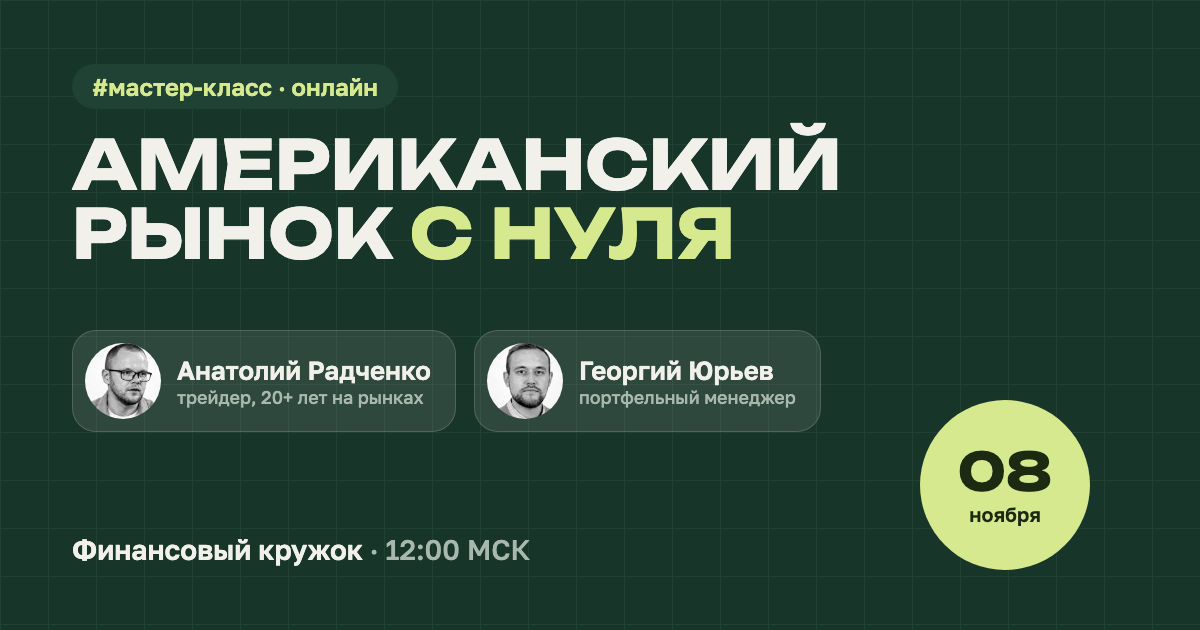
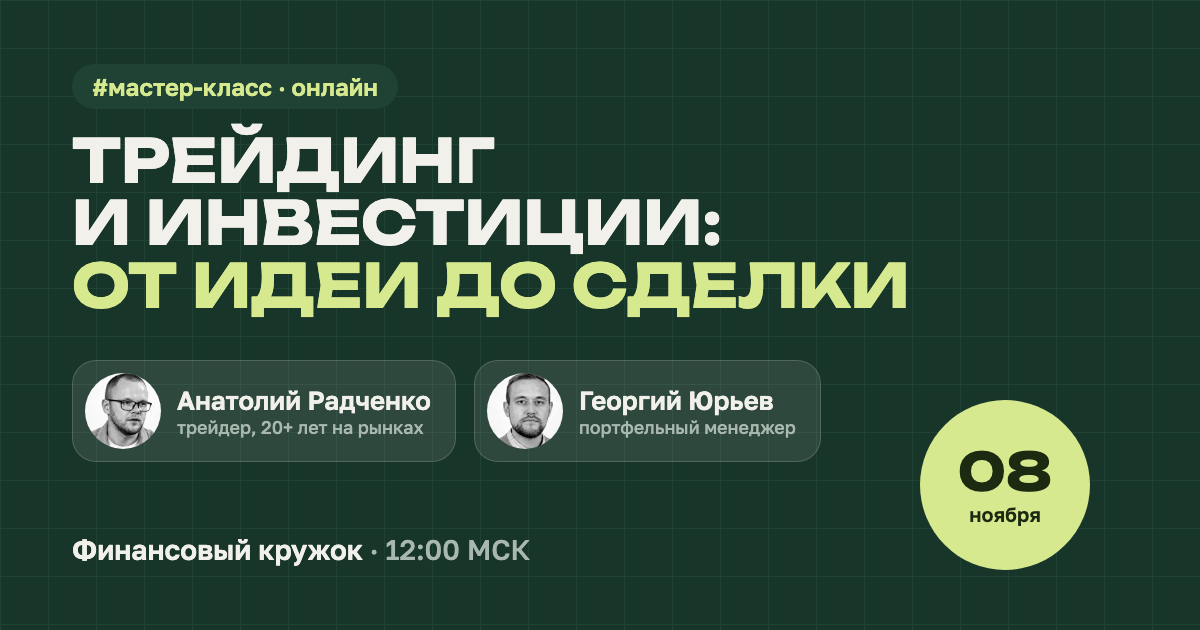
Заголовок: Трейдинг и инвестиции — от идеи до сделки

Changed region(s): [[0.0617, 0.181, 0.7708, 0.5127], [0.0617, 0.5429, 0.37, 0.7238], [0.4008, 0.5429, 0.6783, 0.7238]]

diff --git a/index.html b/index.html
@@ -9,7 +9,7 @@
 <link rel="icon" href="favicon.svg" type="image/svg+xml">
 <meta property="og:type" content="website">
 <meta property="og:locale" content="ru_RU">
-<meta property="og:title" content="Американский рынок с нуля — мастер-класс 8 ноября">
+<meta property="og:title" content="Трейдинг и инвестиции: от идеи до сделки — мастер-класс 8 ноября">
 <meta property="og:description" content="Онлайн, 8 ноября в 12:00 МСК. 3 часа практики с Анатолием Радченко и Георгием Юрьевым + ответы на вопросы.">
 <meta property="og:url" content="https://finkruzhok.pro/">
 <meta property="og:image" content="https://finkruzhok.pro/og.png">
@@ -313,7 +313,7 @@ footer .disc{flex-basis:100%;font-size:13px}
   <div class="in">
     <span class="tag">#мастер-класс · 8 ноября · онлайн</span>
     <div class="stage">
-      <h1>Американский рынок <em>с&nbsp;нуля</em></h1>
+      <h1>Трейдинг и&nbsp;инвестиции: <em>от&nbsp;идеи до&nbsp;сделки</em></h1>
       <div class="faces-row">
         <div class="float f1"><img src="img/anatoly-av.jpg" alt=""><div><b>Анатолий Радченко</b><span>Трейдер, 20+ лет на рынках</span></div></div>
         <div class="float f2"><img src="img/gosha-av.jpg" alt=""><div><b>Георгий Юрьев</b><span>Портфельный менеджер</span></div></div>
@@ -324,7 +324,7 @@ footer .disc{flex-basis:100%;font-size:13px}
       </div>
     </div>
     <div class="low">
-      <div><p class="sub"><b>Как находить идеи, входить в сделки и управлять риском.</b> На реальных примерах пройдём весь путь — от выбора компании и точки входа до фиксации прибыли или выхода с&nbsp;убытком.</p><p class="proof"><span><b>3&nbsp;часа</b> практики</span><span><b>+&nbsp;ответы</b> на ваши вопросы</span><span><b>58&nbsp;тыс.</b> подписчиков на YouTube</span></p></div>
+      <div><p class="sub"><b>Как находить идеи, входить в сделки и управлять риском на американском рынке.</b> На реальных примерах пройдём весь путь — от выбора компании и точки входа до фиксации прибыли или выхода с&nbsp;убытком.</p><p class="proof"><span><b>3&nbsp;часа</b> практики</span><span><b>+&nbsp;ответы</b> на ваши вопросы</span><span><b>58&nbsp;тыс.</b> подписчиков на YouTube</span></p></div>
       <a class="next" data-goal="cta_hero" href="#reg">
         <div><small>Мастер-класс</small><b>Онлайн-трансляция</b><span>8 ноября, 12:00 МСК · <span id="countdown" style="display:inline"></span></span></div>
         <span class="go"><svg><use href="#arr"/></svg></span>
